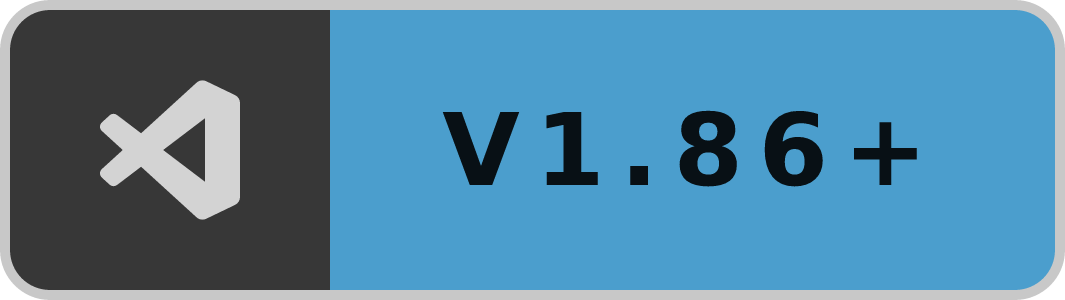
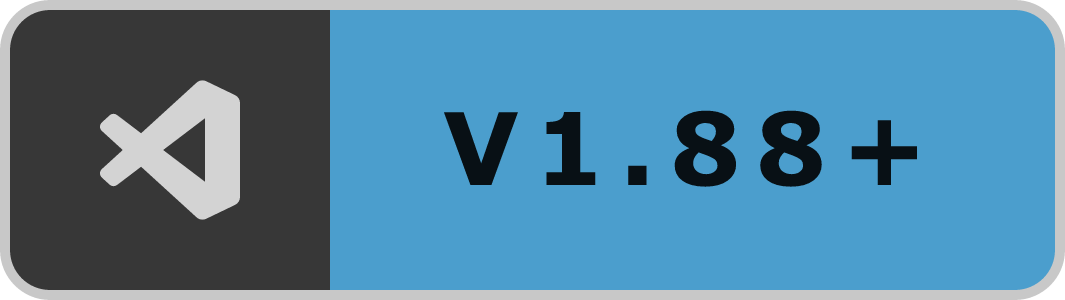
release: v2.5.3 commit.

diff --git a/src/theme/rules/app/core/components/editor.ts b/src/theme/rules/app/core/components/editor.ts
@@ -113,8 +113,8 @@ export const getRules = (themeContext: ThemeContext): object => {
     "editorOverviewRuler.warningForeground": colors.basic.def.orange.pri,
     "editorOverviewRuler.infoForeground": colors.basic.def.blue.pri,
     "editorOverviewRuler.bracketMatchForeground": colors.basic.def.brown.sec,
-    "editorOverviewRuler.inlineChatInserted": "#ff0000", // 🔵 Unknown attribute
-    "editorOverviewRuler.inlineChatRemoved": "#ff0000", // 🔵 Unknown attribute
+    "editorOverviewRuler.inlineChatInserted": colors.basic.def.green.sec,
+    "editorOverviewRuler.inlineChatRemoved": colors.basic.def.red.sec,
     "editorError.foreground": colors.basic.def.red.pri,
     "editorError.border": TRANSPARENT,
     "editorError.background": TRANSPARENT,

diff --git a/src/hooks/updateBadges.ts b/src/hooks/updateBadges.ts
@@ -14,7 +14,7 @@ fetchModifySvg(
   false,
 );
 fetchModifySvg(
-  "https://img.shields.io/badge/-v1.87+-4B9ECD.svg?labelColor=373737&label=&logo=visualstudiocode&logoColor=%23FFFFFFC7&style=for-the-badge",
+  "https://img.shields.io/badge/-v1.88+-4B9ECD.svg?labelColor=373737&label=&logo=visualstudiocode&logoColor=%23FFFFFFC7&style=for-the-badge",
   path.join(IMAGES_PATH, "badge-vscode.svg"),
   true,
   false,

diff --git a/CHANGELOG.md b/CHANGELOG.md
@@ -8,6 +8,16 @@ The format is based on [Keep a Changelog](https://keepachangelog.com/en/1.0.0/),
 
 Nothing yet.
 
+## [2.5.3] - 2024-30-04 - v1.88.x Support 🟢
+
+### Added
+
+- Support for VS Code v1.88.x.
+
+### Removed
+
+- Unnecessary package contents.
+
 ## [2.5.2] - 2024-30-04 - Vs Code v1.87.x Support 🟢
 
 ### Added
@@ -323,7 +333,8 @@ Nothing yet.
 
 - Initial release
 
-[unreleased]: https://github.com/Codemos-Inc/codemos-modern/compare/v2.5.2...HEAD
+[unreleased]: https://github.com/Codemos-Inc/codemos-modern/compare/v2.5.3...HEAD
+[2.5.3]: https://github.com/Codemos-Inc/codemos-modern/compare/v2.5.2...v2.5.3
 [2.5.2]: https://github.com/Codemos-Inc/codemos-modern/compare/v2.5.1...v2.5.2
 [2.5.1]: https://github.com/Codemos-Inc/codemos-modern/compare/v2.5.0...v2.5.1
 [2.5.0]: https://github.com/Codemos-Inc/codemos-modern/compare/v2.4.0...v2.5.0

diff --git a/README.md b/README.md
@@ -317,7 +317,7 @@ Changes from the last major release shown below. If you want to see the full cha
 
 ### Added
 
-- VS Code v1.86.x support.
+- VS Code v1.88.x support.
 - Modularity system. Users can now side-load **third party themes**.
 - Brand new design, **"Minimal"**. Users can now choose between **"Modern"** and **"Minimal"** designs.
 - Command `codemosModern.authenticate` to increase GitHub **api rate limits**.
